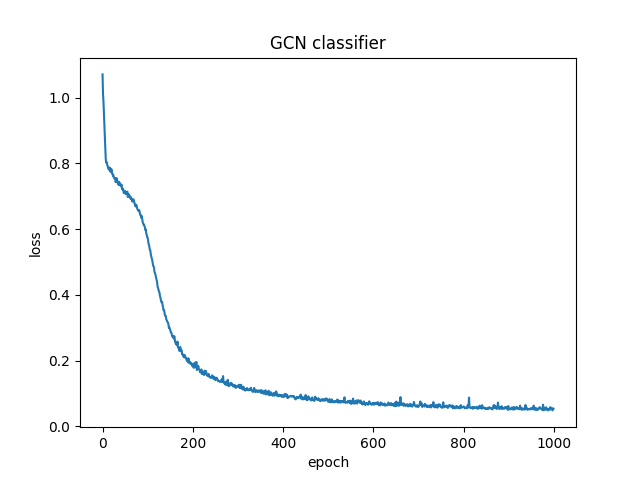
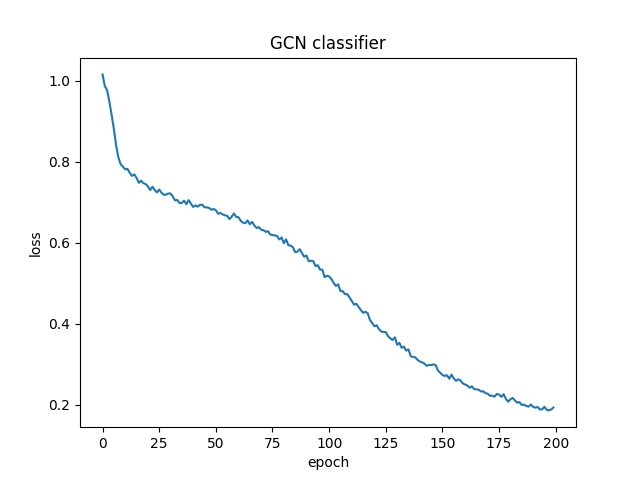
Added subgraphs from transfer entropy network

diff --git a/TEnetwork2subgraphs.py b/TEnetwork2subgraphs.py
@@ -1,0 +1,86 @@
+import pandas as pd
+import numpy as np
+import networkx as nx
+import matplotlib.pyplot as plt
+from util import plot_graphs, plot_betweenness_centrality, plot_degree, te_rollout, te_rollout_addnodes, plot_path_lengths, plot_htrees
+import csv
+import pickle
+
+# Directories
+subgraphs_dir = 'results/subgraphs/'
+
+# Thresholds for overview analytics (degree/centrality)
+te_thresh = 0.05 # used for influence across classifications, ex// TM_TM, UM_TM
+te_total_thresh = 0.1
+
+# Limits
+vis_lim = 5
+dep_lim = 10
+max_nodes = 101. # To disregard communities (nodes 101 and up)
+
+# Dataframe of TE network (v2/v4/dynamic)
+graph_df = pd.read_csv('data/actor_te_edges_2018_03_01_2018_05_01.csv')
+cascade_df = graph_df.loc[(graph_df['Target'] > 1.) & (graph_df['Source']<max_nodes) & (graph_df['Target']<max_nodes)]
+
+# Dict of actor names (v2/v4/dynamic)
+actor_df = pd.read_csv('data/actors.csv')
+actors = dict(zip(actor_df.actor_id, actor_df.actor_label))
+actors_orig = actors
+orig_nodes = list(actors_orig.values())
+
+# Capture all edge types
+from_edges = ['UF', 'UM', 'TF', 'TM']
+to_edges   = ['UF', 'UM', 'TF', 'TM']
+
+edge_types = ['UF_TM','UF_TM']
+for i in from_edges:
+    for j in to_edges:
+        #edge_types.append(str(i + '_' + j))
+        edge_types.append(f"{i}_{j}")
+
+# initialize places to store results
+graphs = {}
+
+# Main
+if __name__ == "__main__":
+    for edge_type in edge_types:
+        # Filter for TE edges above threshold value
+        graph_df1 = cascade_df.loc[(graph_df[edge_type] > te_thresh)]
+        g = nx.from_pandas_edgelist(graph_df1, 'Source', 'Target', [edge_type], create_using=nx.DiGraph())
+
+        # Collect generated graphs labeled by edge types (UFTM classifications)
+        graphs.update({edge_type:g})
+        
+        # Differentiate between total TE threshold and individual TE thresholds
+        if(edge_type == 'total_te'):
+            thresh = te_total_thresh
+        elif(edge_type != 'total_te'):
+            thresh = te_thresh
+
+    
+    ##### Pathways analysis #####
+    subgraphs = {}
+    for edge_type in edge_types:
+        #for te_thresh in [0.05, 0.06, 0.07, 0.08, 0.09, 0.1]:
+        threshes = np.arange(0,0.5,0.1)
+        threshes = list(np.round(threshes, 1))
+        for te_thresh in threshes:
+            cascade_df = graph_df.loc[(graph_df[edge_type] > te_thresh) & \
+                                        (graph_df['Target'] > 1.) & (graph_df['Source']<101.) & (graph_df['Target']<101.)]
+            
+            # root nodes are those identified previously as most influential.
+            # In the dynamic v4, these nodes are: 12=Ian56789, 23=NAJ562, 100=peter_pobjecky, 32=georgegalloway
+            #root_nodes=[12, 32, 100, 23]
+            root_nodes=[12]
+            root_graphs = {}
+            lengths, all_root_dfs = te_rollout(in_roots = root_nodes, in_edges_df = cascade_df, max_visits=vis_lim)
+            root_graphs = {}
+            for roots, root_df in all_root_dfs.items():
+                g = nx.from_pandas_edgelist(root_df, 'Source', 'Target', [edge_type], create_using=nx.DiGraph())
+                root_graphs.update({roots:g})
+                subgraphs.update({f'{edge_type}-{te_thresh}':g})
+            plot_graphs(root_graphs, subgraphs_dir, actors = actors_orig, edge_type=edge_type, te_val = te_thresh)
+
+    print(subgraphs) 
+    with open('subgraphs.pickle', 'wb') as handle:
+        pickle.dump(subgraphs, handle, protocol=pickle.HIGHEST_PROTOCOL)

diff --git a/GNN.py b/GNN.py
@@ -5,30 +5,15 @@ import torch
 import torch.nn as nn
 import torch.nn.functional as F
 import networkx as nx
+import pickle
 from sklearn.model_selection import train_test_split
 from sklearn.metrics import accuracy_score, precision_score, recall_score, f1_score
 import torch.optim as optim
 from torch.utils.data import DataLoader
 from generate_rich_clubs import generate_graphs
+import pandas as pd
 
 device = torch.device("cuda:0" if torch.cuda.is_available() else "cpu")
-
-
-# generate random and scale-free graphs
-#def generate_graphs(num_graphs=100, num_nodes=50):
-#    graphs = []
-#    labels = []
-#    for _ in range(num_graphs):
-#        p = np.random.uniform(0.01, 0.1)
-#        G = nx.gnp_random_graph(num_nodes, p)
-#        graphs.append(dgl.from_networkx(G))
-#        labels.append(0)  # random graph label
-#        m = np.random.randint(1, 5)
-#        G = nx.barabasi_albert_graph(num_nodes, m)
-#        G = dgl.from_networkx(G)
-#        graphs.append(G)
-#        labels.append(1)  # scale-free graph label
-#    return graphs, torch.tensor(labels)
 
 graphs, labels = generate_graphs(num_graphs=1024)
 
@@ -114,11 +99,13 @@ test_dataloader = DataLoader(test_data, batch_size=128, shuffle=False, collate_f
 model = GCNClassifier(in_dim=1, hidden_dim=64, n_classes=3).to(device)
 optimizer = optim.Adam(model.parameters(), lr=0.001)
 loss_func = nn.CrossEntropyLoss()
-n_epochs = 1000
+n_epochs = 200
 
 
 # training 
 #TODO accuracy training curve
+#TODO save training progress, load if it exists
+# if *.pt exists, load, else train
 epoch_t = []
 loss_t  = []
 for epoch in range(n_epochs):
@@ -142,7 +129,10 @@ for epoch in range(n_epochs):
         print("model converged")
         pass
 
-
+#model_scripted = torch.jit.script(model)
+#torch.save(model, 'GCNClassifier.pt')
+#model_scripted.save('GCNClassifier.pt')
+torch.save(model.state_dict(), 'GCN.pt')
 
 acc, prec, rec, f1 = evaluate(model, test_dataloader, device)
 print(f'acc: {acc}')
@@ -160,3 +150,33 @@ plt.savefig('lossplot.png')
 
 #plt.clf()
 #plt.plot(acc_t
+
+# classifying TE data
+with open('subgraphs.pickle', 'rb') as handle:
+    TEgraphs = pickle.load(handle)
+
+
+#model = GCNClassifier(in_dim=1, hidden_dim=64, n_classes=3).to(device)
+#model.load_state_dict('GCN.pt')
+model.eval()
+
+res = []
+for name, graph in TEgraphs.items():
+    print(name)
+    print(graph)
+    name = name.split('-')
+    influence_type = name[0]
+    te_thresh = name[1]
+    g = dgl.from_networkx(graph).to(device)
+    with torch.no_grad():
+        out = model(g)
+        pred = out.argmax(dim=1)
+        print(pred)
+    res.append([influence_type, te_thresh, pred])
+
+results = pd.DataFrame(res)
+print(results)
+
+
+
+

diff --git a/util.py b/util.py
@@ -1,0 +1,54 @@
+import pandas as pd
+import numpy as np
+import networkx as nx
+import matplotlib.pyplot as plt
+from networkx.drawing.nx_agraph import graphviz_layout
+
+def plot_graphs(graphs, graphs_dir, actors, edge_type, te_val, plot_type=None):
+    for edge_type, graph in graphs.items():
+        nx.relabel_nodes(graph,actors,copy=False)
+        if(plot_type):
+            #pos=nx.spring_layout(graph)
+            #nx.draw(graph,pos)
+            nx.draw_circular(graph,with_labels=True)
+        else:
+            nx.draw_networkx(graph)
+        plt.savefig(f"{graphs_dir}{edge_type}-te-{te_val}-graph.jpg")
+        plt.clf()
+
+def te_rollout(in_roots, in_edges_df, max_visits=6): 
+    lengths = {}
+    te_levels_df = {}
+    all_root_dfs = {}
+    for in_root in in_roots:
+        visited = {}
+        root_df = pd.DataFrame()
+        for node in range(10000):
+            visited.update({node:0})
+        this_level_nodes = in_root
+        te_values = []
+        this_level = 0
+        while True:
+            if(this_level==0):
+                this_level_nodes = [this_level_nodes]
+            last_visited = visited.copy()
+            for node in this_level_nodes:
+                visited[node] += 1
+            if(last_visited == visited):
+                lengths.update({in_root:this_level})
+                break
+            this_level += 1
+            edges_from_this_level = in_edges_df[in_edges_df['Source'].isin(this_level_nodes)]
+
+            visited_cap = set([k for k, v in visited.items() if v > max_visits])
+            e = edges_from_this_level[~edges_from_this_level['Target'].isin(visited_cap)]
+            #updated to work with pandas >=2.0
+            #root_df = root_df.append(e, ignore_index=True)
+            root_df = pd.concat([root_df, e], ignore_index=True)
+            this_level_nodes = set(edges_from_this_level['Target'].to_list()).difference(visited_cap)
+
+        all_root_dfs.update({in_root:root_df})
+    
+    return lengths, all_root_dfs
+
+
